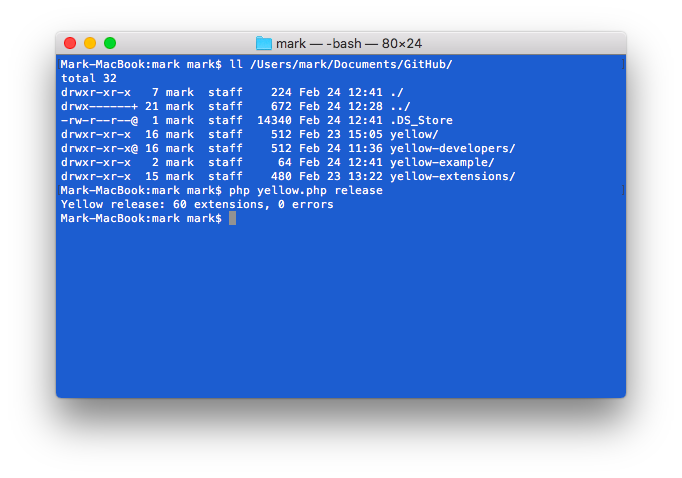
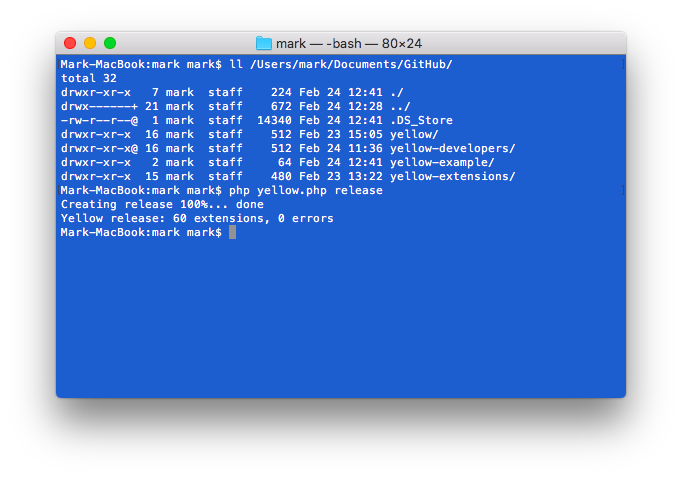
Added progress indicator to static site generator

Changed region(s): [[0.0924, 0.41, 0.4927, 0.4979]]

diff --git a/features/command/command.php b/features/command/command.php
@@ -4,7 +4,7 @@
 // This file may be used and distributed under the terms of the public license.
 
 class YellowCommand {
-    const VERSION = "0.8.3";
+    const VERSION = "0.8.4";
     const TYPE = "feature";
     const PRIORITY = "3";
     public $yellow;                     //access to API
@@ -102,15 +102,21 @@ class YellowCommand {
         $statusCode = empty($locationFilter) ? $this->cleanStaticFiles($path, $locationFilter) : 200;
         $staticUrl = $this->yellow->system->get("staticUrl");
         list($scheme, $address, $base) = $this->yellow->lookup->getUrlInformation($staticUrl);
-        foreach ($this->getContentLocations() as $location) {
+        $locations = $this->getContentLocations();
+        $filesEstimated = count($locations);
+        foreach ($locations as $location) {
+            echo "\rBuilding static website ".$this->getProgressPercent($this->files, $filesEstimated, 5, 60)."%... ";
             if (!preg_match("#^$base$locationFilter#", "$base$location")) continue;
             $statusCode = max($statusCode, $this->buildStaticFile($path, $location, true));
         }
         foreach ($this->locationsArgs as $location) {
+            echo "\rBuilding static website ".$this->getProgressPercent($this->files, $filesEstimated, 5, 60)."%... ";
             if (!preg_match("#^$base$locationFilter#", "$base$location")) continue;
             $statusCode = max($statusCode, $this->buildStaticFile($path, $location, true));
         }
+        $filesEstimated = $this->files + count($this->locationsArgs) + count($this->locationsArgsPagination);
         foreach ($this->locationsArgsPagination as $location) {
+            echo "\rBuilding static website ".$this->getProgressPercent($this->files, $filesEstimated, 5, 95)."%... ";
             if (!preg_match("#^$base$locationFilter#", "$base$location")) continue;
             if (substru($location, -1)!=$this->yellow->toolbox->getLocationArgsSeparator()) {
                 $statusCode = max($statusCode, $this->buildStaticFile($path, $location, false, true));
@@ -133,6 +139,7 @@ class YellowCommand {
             }
             $statusCode = max($statusCode, $this->buildStaticFile($path, "/error/", false, false, true));
         }
+        echo "\rBuilding static website 100%... done\n";
         return $statusCode;
     }
     
@@ -160,7 +167,7 @@ class YellowCommand {
         if ($statusCode>=200) ++$this->files;
         if ($statusCode>=400) {
             ++$this->errors;
-            echo "ERROR building location '$location', ".$this->yellow->page->getStatusCode(true)."\n";
+            echo "\rERROR building location '$location', ".$this->yellow->page->getStatusCode(true)."\n";
         }
         if (defined("DEBUG") && DEBUG>=1) echo "YellowCommand::buildStaticFile status:$statusCode location:$location<br/>\n";
         return $statusCode;
@@ -330,27 +337,30 @@ class YellowCommand {
     // Analyse link status
     public function analyseStatus($path, $links) {
         $statusCode = 200;
-        $broken = $redirect = $data = array();
+        $remote = $broken = $redirect = $data = array();
         $staticUrl = $this->yellow->system->get("staticUrl");
         $staticUrlLength = strlenu(rtrim($staticUrl, "/"));
         list($scheme, $address, $base) = $this->yellow->lookup->getUrlInformation($staticUrl);
         $staticLocations = $this->getContentLocations(true);
-        uksort($links, "strnatcasecmp");
         foreach ($links as $url=>$value) {
-            if (defined("DEBUG") && DEBUG>=1) echo "YellowCommand::analyseStatus url:$url\n";
             if (preg_match("#^$staticUrl#", $url)) {
                 $location = substru($url, $staticUrlLength);
                 $fileName = $path.substru($url, $staticUrlLength);
                 if (is_readable($fileName)) continue;
                 if (in_array($location, $staticLocations)) continue;
             }
-            if (preg_match("/^(http|https):/", $url)) {
-                $referer = "$scheme://$address$base".(($pos = strposu($value, ",")) ? substru($value, 0, $pos) : $value);
-                $statusCodeUrl = $this->getLinkStatus($url, $referer);
-                if ($statusCodeUrl!=200) {
-                    $statusCode = max($statusCode, $statusCodeUrl);
-                    $data[$url] = "$statusCodeUrl,$value";
-                }
+            if (preg_match("/^(http|https):/", $url)) $remote[$url] = $value;
+        }
+        $remoteNow = 0;
+        uksort($remote, "strnatcasecmp");
+        foreach ($remote as $url=>$value) {
+            echo "\rChecking static website ".$this->getProgressPercent(++$remoteNow, count($remote), 5, 95)."%... ";
+            if (defined("DEBUG") && DEBUG>=1) echo "YellowCommand::analyseStatus url:$url\n";
+            $referer = "$scheme://$address$base".(($pos = strposu($value, ",")) ? substru($value, 0, $pos) : $value);
+            $statusCodeUrl = $this->getLinkStatus($url, $referer);
+            if ($statusCodeUrl!=200) {
+                $statusCode = max($statusCode, $statusCodeUrl);
+                $data[$url] = "$statusCodeUrl,$value";
             }
         }
         foreach ($data as $url=>$value) {
@@ -365,6 +375,7 @@ class YellowCommand {
                 }
             }
         }
+        echo "\rChecking static website 100%... done\n";
         return array($statusCode, $broken, $redirect);
     }
 
@@ -513,6 +524,14 @@ class YellowCommand {
     // Return human readable status
     public function getStatusFormatted($statusCode) {
         return $this->yellow->toolbox->getHttpStatusFormatted($statusCode, true);
+    }
+    
+    // Return progress in percent
+    public function getProgressPercent($now, $total, $increments, $max)
+    {
+        $percent = intval(($max / $total) * $now);
+        if ($increments>1) $percent = intval($percent / $increments) * $increments;
+        return min($max, $percent);
     }
     
     // Return static file

diff --git a/features/release/release.php b/features/release/release.php
@@ -4,7 +4,7 @@
 // This file may be used and distributed under the terms of the public license.
 
 class YellowRelease {
-    const VERSION = "0.8.5";
+    const VERSION = "0.8.6";
     const TYPE = "feature";
     public $yellow;         //access to API
     public $extensions;     //number of extensions
@@ -44,9 +44,12 @@ class YellowRelease {
         if (is_dir($path) && is_dir($pathExtension)) {
             $this->extensions = $this->errors = 0;
             $statusCode = max($statusCode, $this->updateReleaseDirectory($path, $pathExtension));
-            foreach ($this->yellow->toolbox->getDirectoryEntriesRecursive($path, "/.*/", true, true) as $entry) {
+            $entries = $this->yellow->toolbox->getDirectoryEntriesRecursive($path, "/.*/", true, true);
+            foreach ($entries as $entry) {
+                echo "\rCreating release ".$this->getProgressPercent($this->extensions, count($entries), 10, 95)."%... ";
                 $statusCode = max($statusCode, $this->updateReleaseDirectory("$entry/", $pathExtension));
             }
+             echo "\rCreating release 100%... done\n";
         } else {
             $statusCode = 500;
             $this->extensions = 0;
@@ -252,6 +255,14 @@ class YellowRelease {
             if (defined("DEBUG") && DEBUG>=2) echo "YellowRelease::updateReleaseWaffle file:$fileNameWaffle<br/>\n";
         }
         return $statusCode;
+    }
+    
+    // Return progress in percent
+    public function getProgressPercent($now, $total, $increments, $max)
+    {
+        $percent = intval(($max / $total) * $now);
+        if ($increments>1) $percent = intval($percent / $increments) * $increments;
+        return min($max, $percent);
     }
     
     // Return release information from source code

diff --git a/features/README.md b/features/README.md
@@ -48,7 +48,7 @@ The following features are available:
 * [Previousnext](https://github.com/datenstrom/yellow-extensions/tree/master/features/previousnext): 
   Show links to previous/next page.
 * [Release](https://github.com/datenstrom/yellow-extensions/tree/master/features/release): 
-  Create releases.
+  Create releases for website update.
 * [Search](https://github.com/datenstrom/yellow-extensions/tree/master/features/search): 
   Full-text search.
 * [Sitemap](https://github.com/datenstrom/yellow-extensions/tree/master/features/sitemap): 

diff --git a/features/release/README.md b/features/release/README.md
@@ -1,6 +1,6 @@
-Release 0.8.5
+Release 0.8.6
 =============
-Create releases.
+Create releases for website update.
 
 <p align="center"><img src="release-screenshot.png?raw=true" alt="Screenshot"></p>
 

diff --git a/features/command/README.md b/features/command/README.md
@@ -1,4 +1,4 @@
-Command 0.8.3
+Command 0.8.4
 =============
 Run commands in a terminal window.
 
